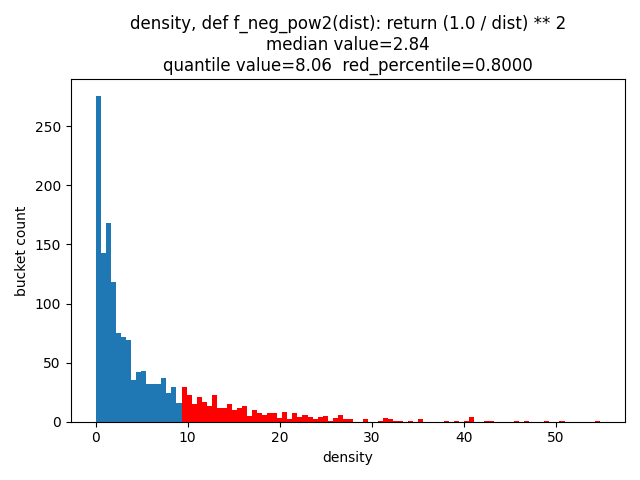
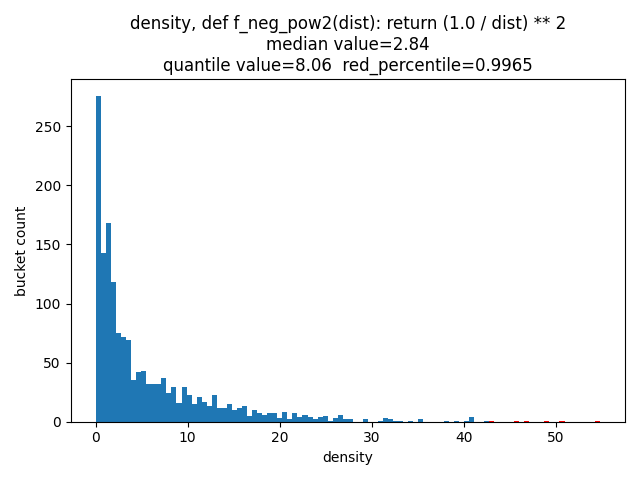
map chromo chrs per chromo donor

Changed region(s): [[0.2812, 0.8125, 0.5312, 0.9062], [0.75, 0.125, 0.8438, 0.1562]]

diff --git a/DonorAnalyzer.py b/DonorAnalyzer.py
@@ -162,7 +162,7 @@ def main():
     print(f'filling db took {t2 - t1} sec')
 
 
-def hist_patients(f_id, ratio):
+def hist_patients(f_id, ratio, dens_plot=True, cluster_plot=True, periphery_plot=True, seek_plot=True):
     t1 = time.time()
     denss_info = []
     clusters = []
@@ -182,7 +182,6 @@ def hist_patients(f_id, ratio):
                     peripheries.append(periphery)
         code = rep.get_proximity_code(f_id)
 
-        dens_path = f'distribution/densities/{f_id}.png'
         denss = list(map(lambda x: x[0], denss_info))
         top_ratio_infos_sorted_by_dens = sorted(denss_info, key=lambda p: p[0])
         cnt = len(denss)
@@ -192,19 +191,41 @@ def hist_patients(f_id, ratio):
             infoids.append(cur_id)
 
         buckets_cnt = 100
-        plot_distribution(denss, dens_path, code, 'density', 'density', ratio, buckets_cnt)
+        dens_path = f'distribution/densities/{f_id}.png'
+        if dens_plot:
+            plot_distribution(denss, dens_path, code, 'density', 'density', ratio, buckets_cnt)
 
         cluster_path = f'distribution/clusters/{f_id}.png'
-        plot_distribution(clusters, cluster_path, code, 'clusters', 'cluster_size', ratio, buckets_cnt, 'green')
+        if cluster_plot:
+            plot_distribution(clusters, cluster_path, code, 'clusters', 'cluster_size', ratio, buckets_cnt, 'green')
 
         periphery_path = f'distribution/peripheries/{f_id}.png'
-        plot_distribution(peripheries, periphery_path, code, 'peripheries', 'periphery_size', ratio, buckets_cnt, 'orange')
+        if periphery_plot:
+            plot_distribution(peripheries, periphery_path, code, 'peripheries', 'periphery_size', ratio, buckets_cnt,
+                              'orange')
 
-        plot_seek_distibution(top_ratio_infos_sorted_by_dens, buckets_cnt, rep)
+        seek_path = f'distribution/seek/{f_id}.png'
+        if seek_plot:
+            plot_seek_distibution(top_ratio_infos_sorted_by_dens, buckets_cnt, rep, seek_path,
+                                  f'seek distribution\n{code}')
 
     t2 = time.time()
     print(f'plots took {t2 - t1} sec')
     return infoids
+
+
+def relation_chromo_chrs_per_donor(chromo_infoids):
+    donor_chromo_chrs_cnt = {}
+    with DonorRepository() as rep:
+        for infoid in chromo_infoids:
+            donor, chr, f_id = rep.get_by_infoid(infoid)
+            donor_chromo_chrs_cnt[donor] = donor_chromo_chrs_cnt.get(donor, 0) + 1
+    avg = 0.0
+    cnt = 0
+    for _, v in donor_chromo_chrs_cnt.items():
+        cnt += 1
+        avg += v
+    return avg / cnt
 
 
 def find_chromos(infoids):
@@ -303,10 +324,13 @@ def measure_chromos(chromo_clusters):
     chromo_marker_acc = chromo_cnt / all_cnt
     print(f'marker acc: {chromo_marker_acc * 100}%')
 
+
 def all_hists(ratio):
-    #for i in range(1, 4):
-    for i in range(1, max_range_pow + 1):
-        _ = hist_patients(i, ratio=ratio)
+    for i in range(1, 4):
+        # for i in range(1, max_range_pow + 1):
+        infoids = hist_patients(i, ratio=ratio, dens_plot=True, seek_plot=True, periphery_plot=False, cluster_plot=False)
+        avg = relation_chromo_chrs_per_donor(infoids)
+        print(f'chromo chr per 1 donor = {avg} with f_id = {i}')
 
 
 def seek_test():
@@ -329,12 +353,10 @@ def seek_test():
                 seek_donor, seek_chr, seek_low, seek_up, label = rep.get_chromo(donor, i)
                 print(label)
                 if seek_low == -2:
-                    print('No Chromo')
                     no_chromo_cnt += 1
                     continue
 
                 if seek_low == -1:
-                    print('No Data')
                     no_data_cnt += 1
                     continue
                 if label == 'High confidence':
@@ -350,18 +372,17 @@ def seek_test():
 def measure_test():
     i = 3
     infoids = hist_patients(i, ratio=0.8)
-    #chromos = find_chromos(infoids)
+    # chromos = find_chromos(infoids)
     chromo_clusters = find_cromo_clusters(infoids)
     measure_chromos(chromo_clusters)
-    #compare_chromos
+    # compare_chromos
 
 
 if __name__ == '__main__':
     # main()
 
-
-    # all_hists(0.9965) #0.9965: -1,  0.975: -2
+    all_hists(0.9965)  # 0.9965: -1,  0.975: -2
 
     # seek_test()
 
-    measure_test()
+    # measure_test()

diff --git a/DenseUtils.py b/DenseUtils.py
@@ -41,7 +41,7 @@ def find_first_predicate_index(arr, predicate):
     return -1
 
 
-def plot_seek_distibution(top_ratio_infos_sorted_by_dens, buckets_cnt, rep: DonorRepository):
+def plot_seek_distibution(top_ratio_infos_sorted_by_dens, buckets_cnt, rep: DonorRepository, store_path, title):
     dens_sorted_info_ids = list(map(lambda p: p[1], top_ratio_infos_sorted_by_dens))
     denss = list(map(lambda p: p[0], top_ratio_infos_sorted_by_dens))
     cnts_in_bucket, bins = np.histogram(np.array(denss), bins=buckets_cnt)
@@ -67,24 +67,18 @@ def plot_seek_distibution(top_ratio_infos_sorted_by_dens, buckets_cnt, rep: Dono
             _, _, _, _, label = rep.get_chromo(donor, chrN)
             if label == -1:
                 seek_no_data[i] += 1
-                print('No Data')
                 continue
 
             if label == 'High confidence':
                 seek_high[i] += 1
-                print('high')
             elif label == 'Linked to high confidence':
                 seek_almost_high[i] += 1
-                print('almost high')
             elif label == 'Low confidence':
                 seek_low[i] += 1
-                print('low')
             elif label == 'Linked to low confidence':
                 seek_almost_low[i] += 1
             elif label == 'No':
                 seek_no[i] += 1
-                print('No chromo')
-
 
     ids = np.arange(buckets_cnt)
     data = np.array([seek_no_data, seek_no, seek_low, seek_almost_low, seek_almost_high, seek_high])
@@ -95,8 +89,10 @@ def plot_seek_distibution(top_ratio_infos_sorted_by_dens, buckets_cnt, rep: Dono
     for j in range(1, data.shape[0]):
         plt.bar(ids, data[j], color=colors[j], label=labels[j], align='center', bottom=bottom[j - 1])
     plt.legend()
+    plt.title(title)
+    create_path_if_not_exist(store_path)
+    plt.savefig(store_path)
     plt.show()
-
 
 
 def plot_distribution(arr, store_path, function_code, label, xlabel, ratio, buckets_cnt, color='null'):
